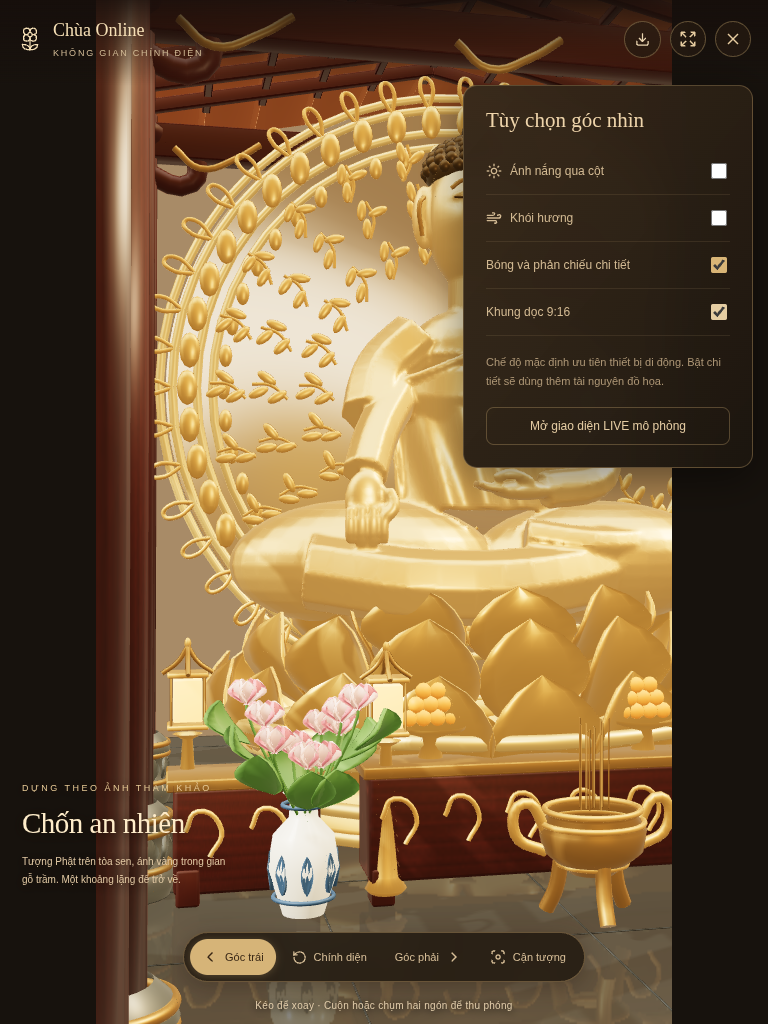
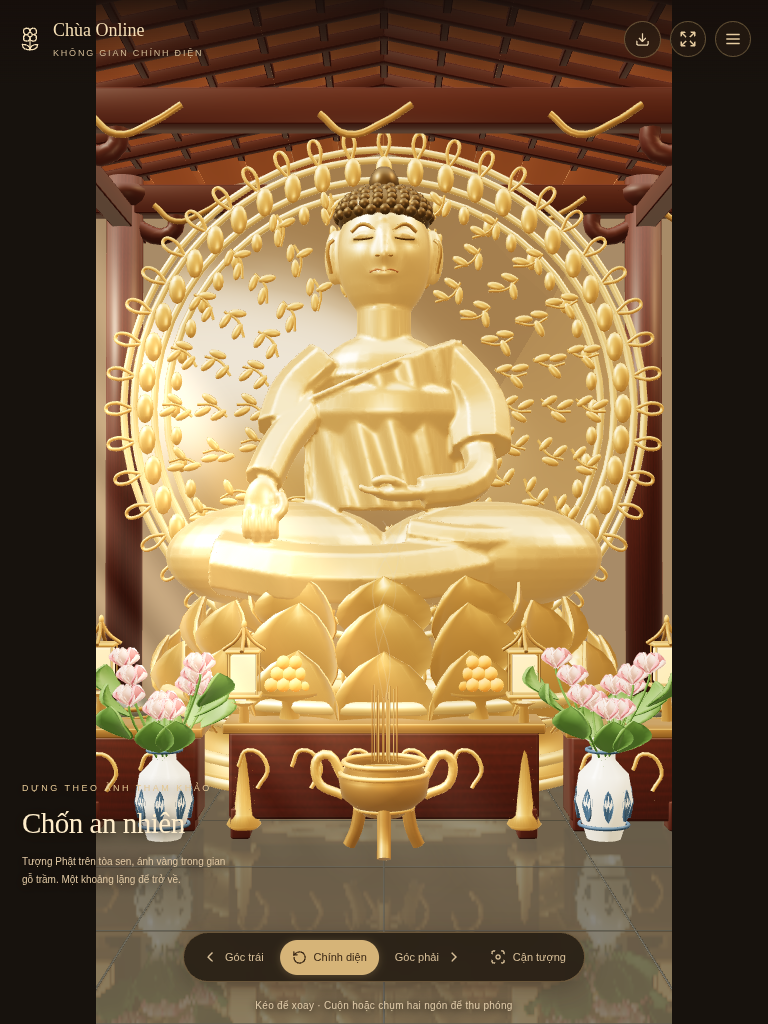
Record 3D sanctuary verification and clean portrait preview

diff --git a/TASKS.md b/TASKS.md
@@ -185,5 +185,5 @@
 - [x] R3F viewer with orbit/zoom, front/left/right/close, reset, local lighting/reflection, quality and 9:16 options.
 - [x] Preserve LIVE and Academy at separate routes; no backend/credential/payment changes.
 - [x] 104 tests, complete production build/TypeScript and full npm audit passed. Chromium verified 5 viewports, real camera/orbit/reset, download, settings/9:16, legacy routes/storage, no external requests.
-- [ ] Update existing draft PR preview and verify remote checks; no production merge before visual acceptance.
+- [x] Draft PR #16 updated; implementation commit b2c17f6 passed GitHub CI and Cloudflare Pages preview. No production merge; owner visual acceptance pending.
 - [ ] Physical iPad Safari performance, visual feedback and higher-detail sculpture/ornament refinement.

diff --git a/docs/TEMPLE_3D.md b/docs/TEMPLE_3D.md
@@ -74,3 +74,7 @@ không tạo secret hoặc nối TikTok. PR hiện giữ draft để chủ sở 
   tải GLB, bốn tùy chọn, canvas 9:16, hai route cũ và sentinel localStorage giữ nguyên.
   Không có page error hoặc request ngoài origin. Đây không phải phép đo FPS iPad.
 - Ảnh khung dọc: `docs/previews/temple-3d-portrait.png`.
+
+Commit triển khai `b2c17f6` đã push; GitHub **Test and build** và **Cloudflare Pages**
+đều thành công. PR #16 tiếp tục là nháp, chưa merge main. Ảnh khung dọc dùng góc
+chính diện, đóng menu để kiểm tra trọn tượng. Thiết bị Safari thật vẫn cần kiểm thử.
